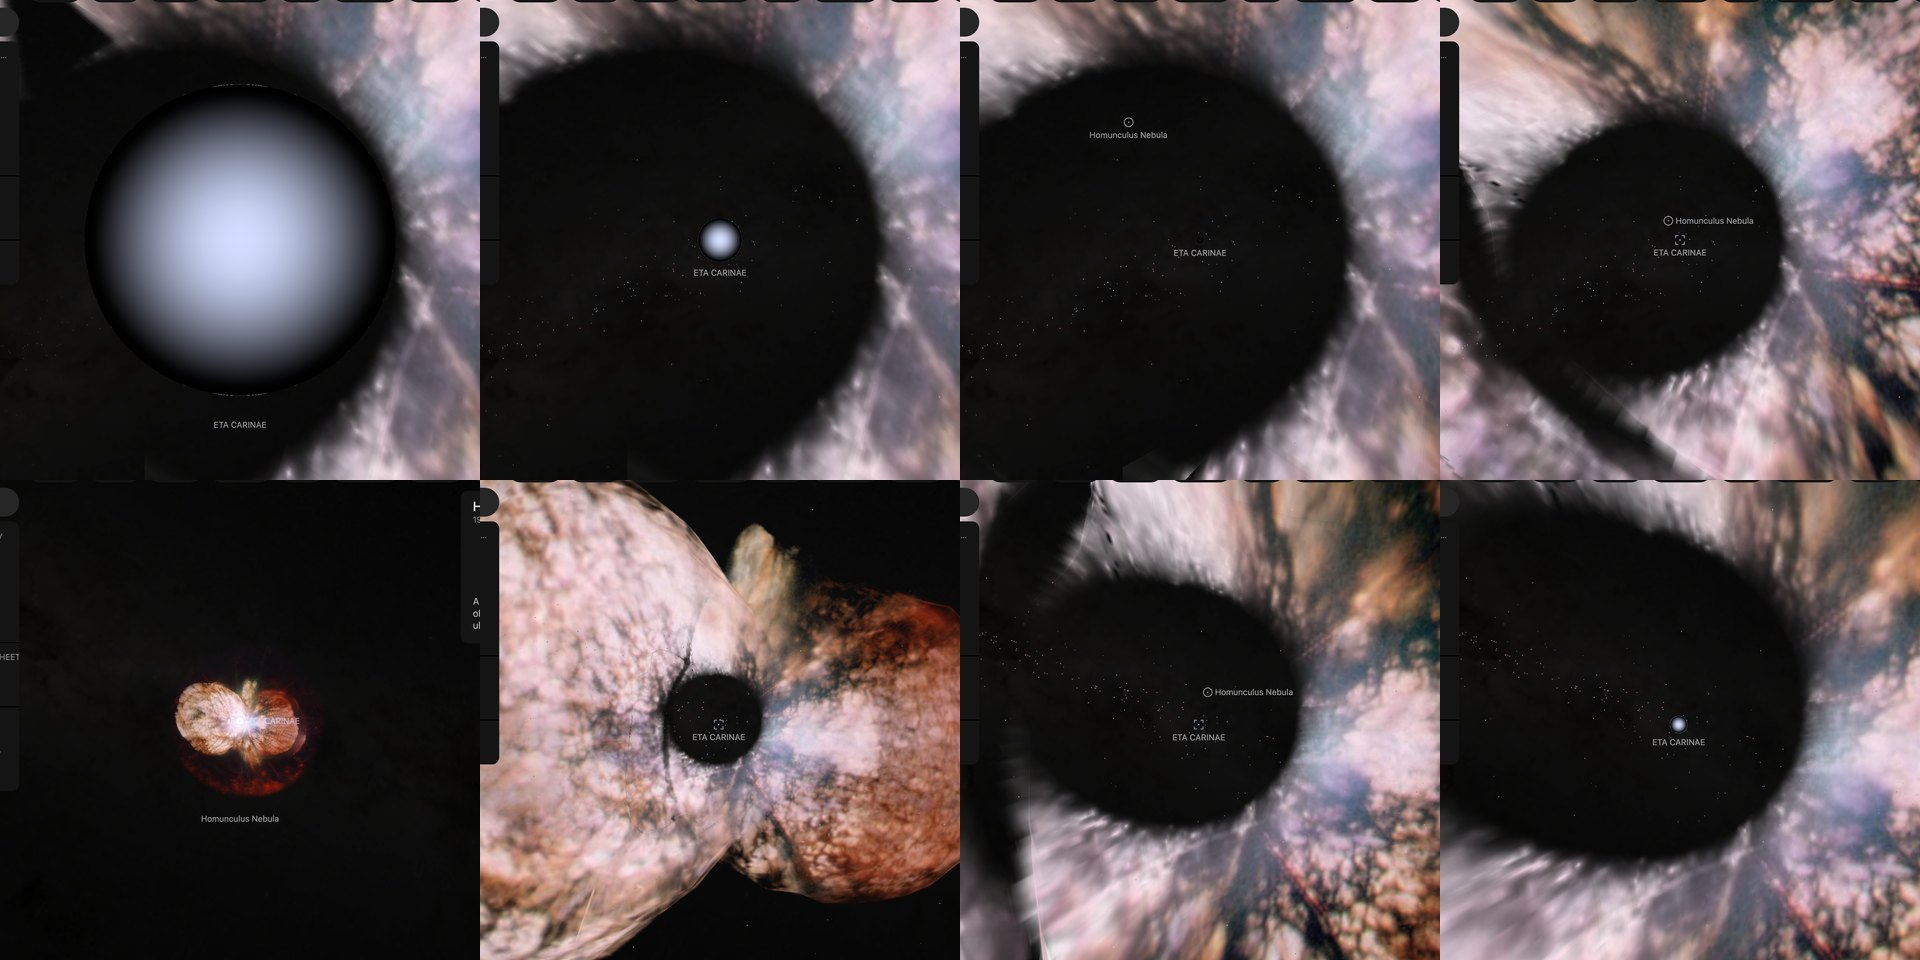
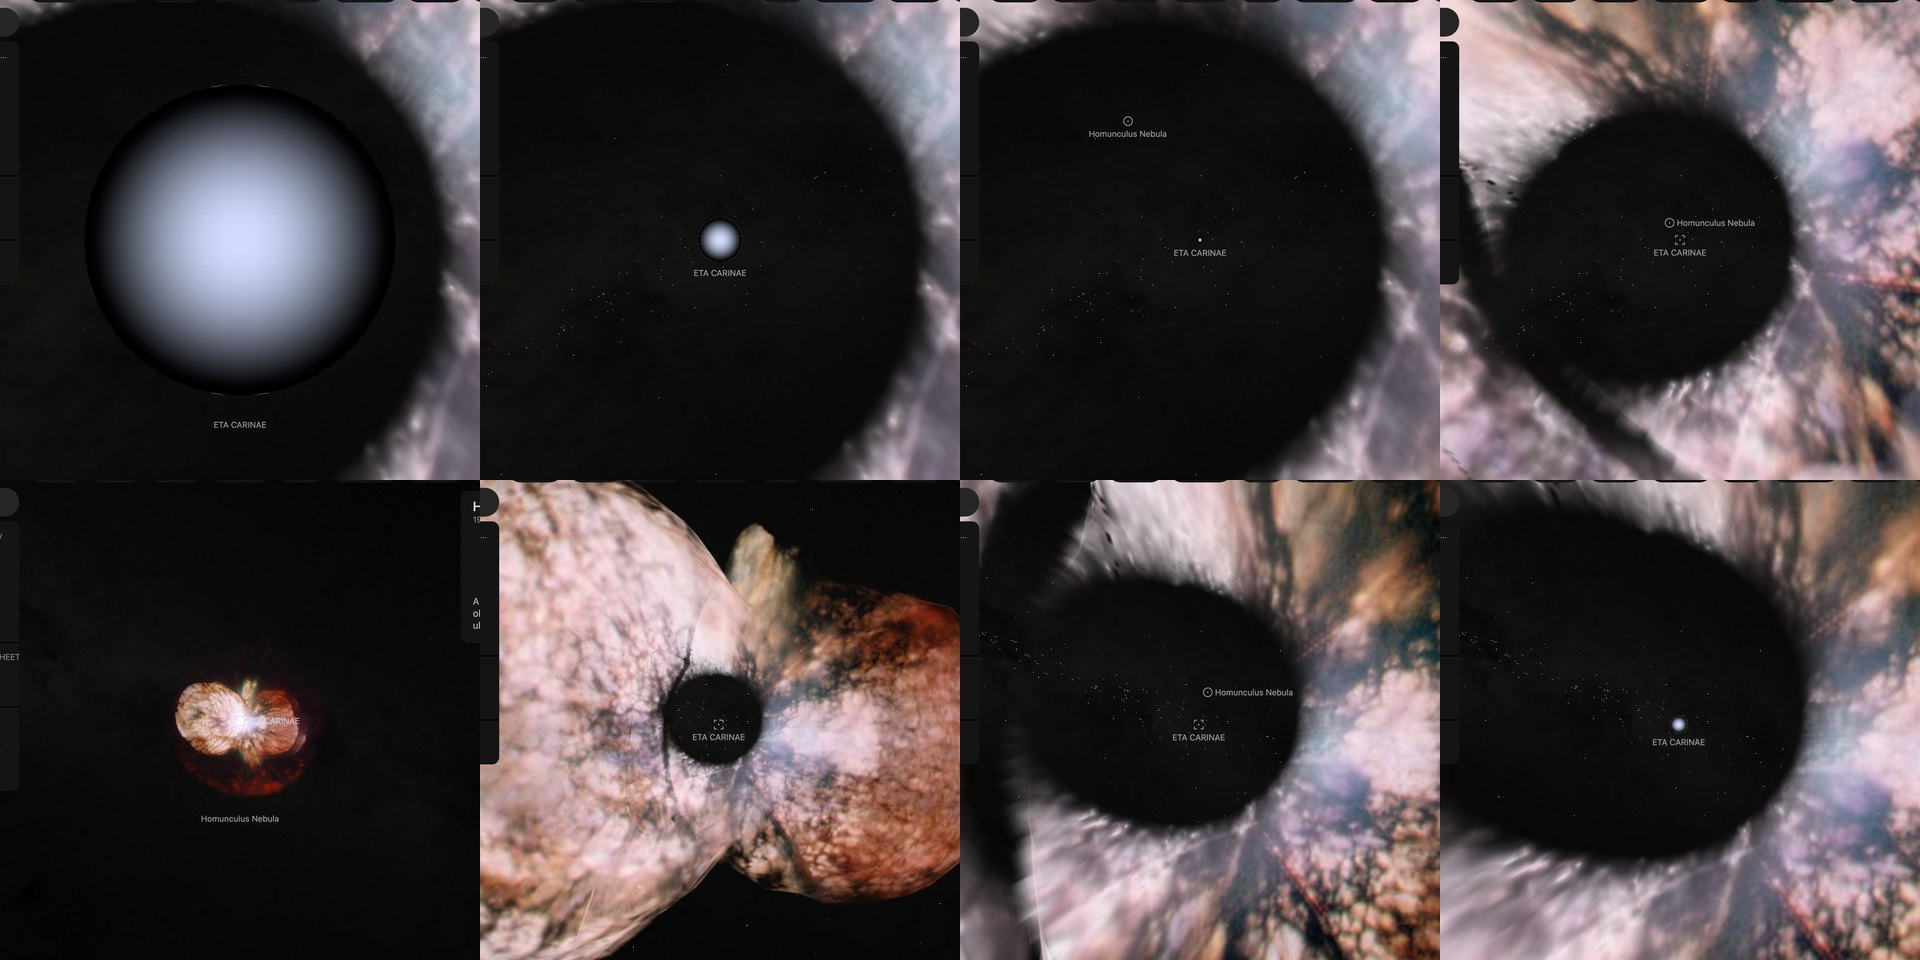
docs(stars): recapture Eta Carinae's evidence with the final renderer

Changed region(s): [[0.0, 0.0, 1.0, 0.5], [0.5625, 0.125, 0.5938, 0.1562]]

diff --git a/src/objects/eta-carinae/README.md b/src/objects/eta-carinae/README.md
@@ -16,7 +16,7 @@ Generated 2026-10-05 by [new-object-cli.mts](../../../packages/telescope-cli/src
 
 ![The star's page inside the Homunculus at four distances, and a zoom in on the nebula's page with the wheel alone](evidence/2026-10-05/pages.jpg)
 
-Headless Chromium at 1440 × 900, device pixel ratio 2, on 2026-10-05, no page errors. Top row: the star's own page as it opens, 32 AU from the star, its disc dimmed toward the edge; then 4, 8 and 12 wheel steps out, at 263, 1,890 and 11,877 AU, with the nebula's surface ([Homunculus Nebula image layers](../homunculus-nebula-layers/README.md)) drawn around it without the sheet through the star. Bottom row: the nebula's page, then a zoom in with the wheel alone, no click: 4 steps in, the view has handed over to the star, 42,973 AU from it; 8 and 13 steps in, 6,079 and 522 AU.
+Headless Chromium at 1440 × 900, device pixel ratio 2, on 2026-10-05, no page errors. Top row: the star's own page as it opens, 42 AU from the star, its disc dimmed toward the edge; then 4, 8 and 12 wheel steps out, at 333, 2,388 and 16,890 AU, with the nebula's surface ([Homunculus Nebula image layers](../homunculus-nebula-layers/README.md)) drawn around it without the sheet through the star. Bottom row: the nebula's page, then a zoom in with the wheel alone, no click: 4 steps in, the view has handed over to the star, 42,973 AU from it; 8 and 13 steps in, 6,083 and 523 AU.
 
 ## Known problems
 
